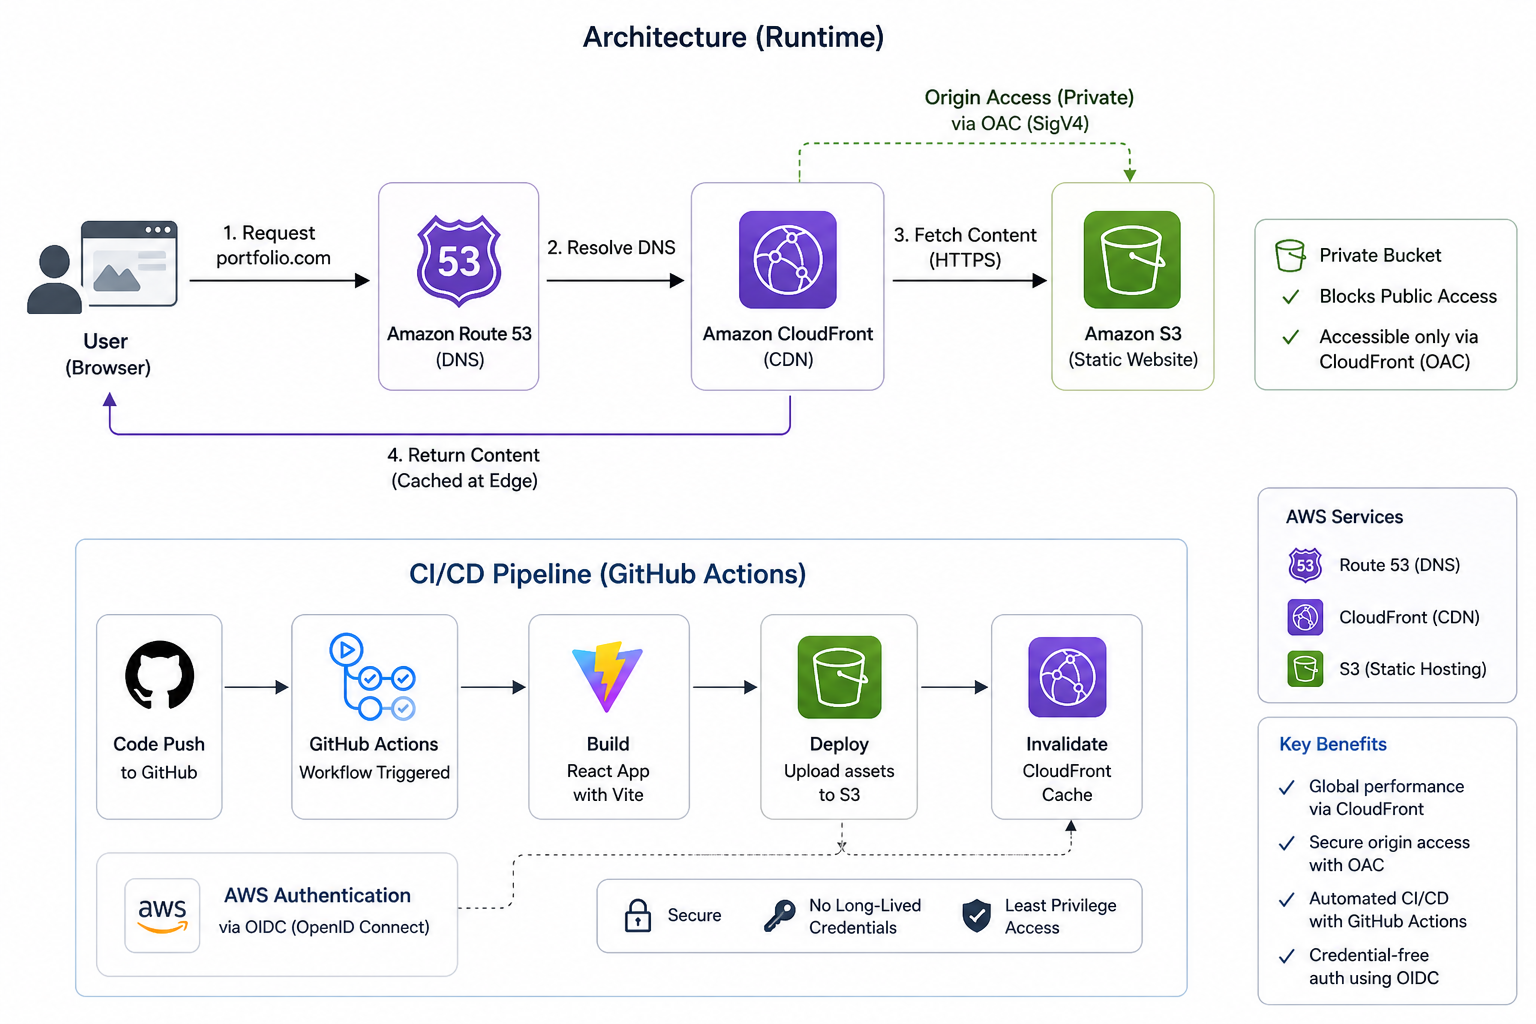
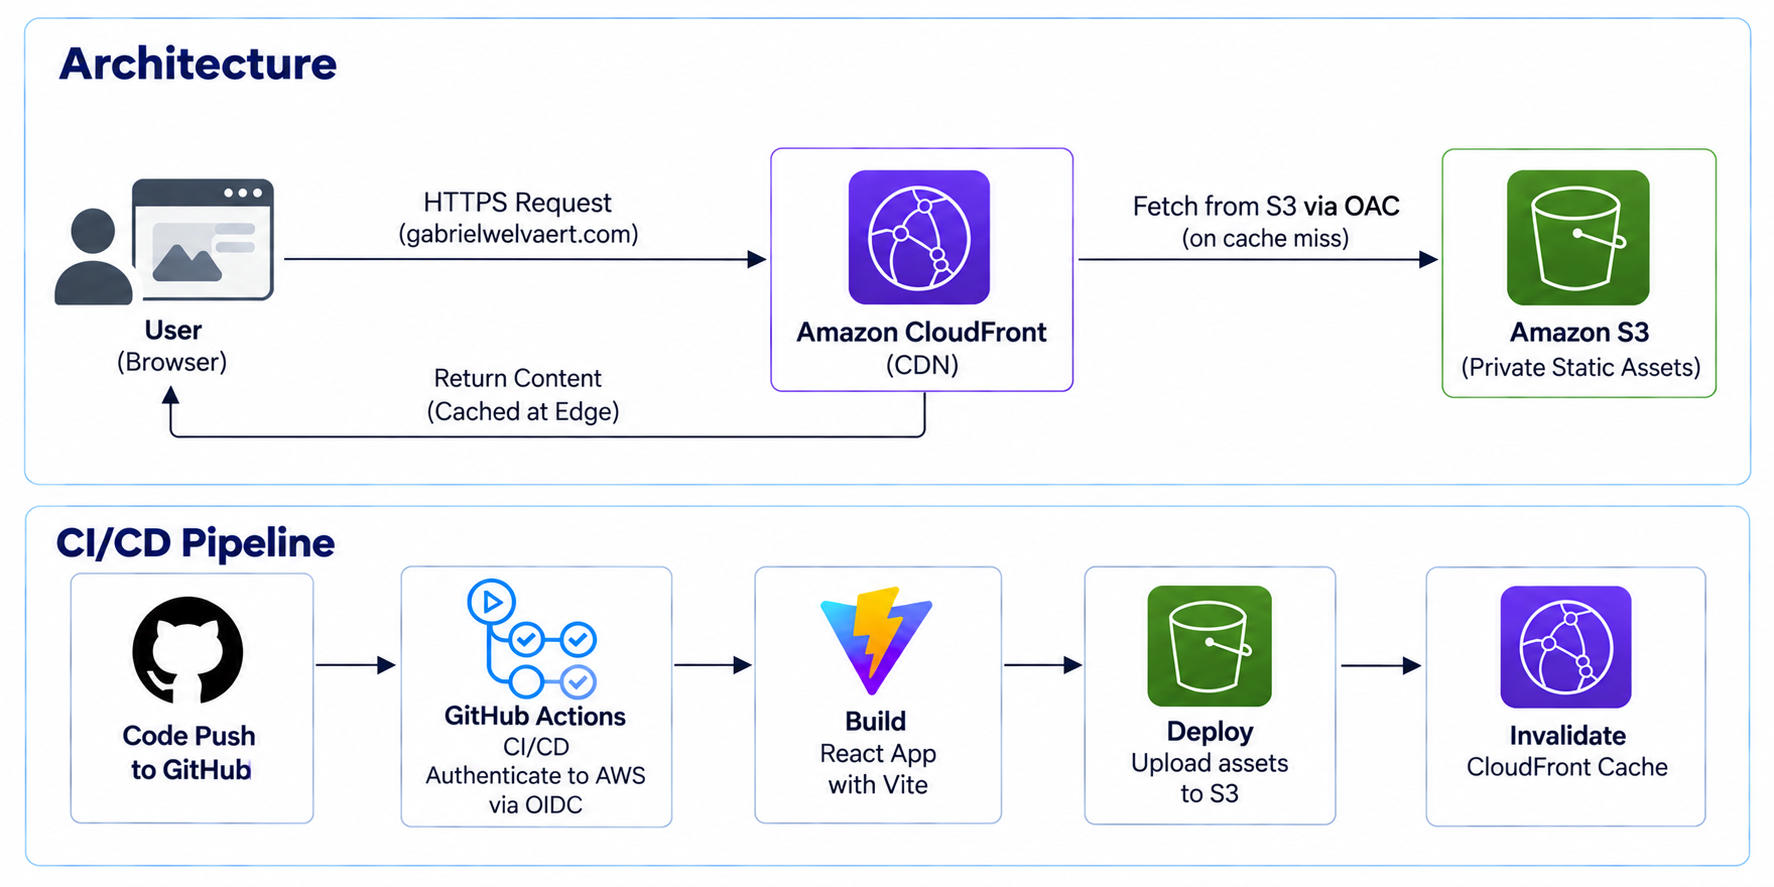
readme update

diff --git a/README.md b/README.md
@@ -1,6 +1,6 @@
 # Portfolio Website
 
-Single-page React application built with Tailwind and Vite, hosted from S3 and delivered through CloudFront with Route 53 DNS and an automated GitHub Actions CI/CD pipeline. You can view it [here](https://gabrielwelvaert.com/).
+Single-page React application built with Tailwind and Vite, hosted in a private S3 bucket and delivered through CloudFront. CloudFront accesses the S3 origin through Origin Access Control (OAC), while GitHub Actions deploys by assuming an AWS IAM role through OpenID Connect (OIDC). Route 53 manages DNS for gabrielwelvaert.com. You can view it [here](https://gabrielwelvaert.com/).
 
 <p align="center">
   <img src="./portfolio-architecture.png" width="100%" />
